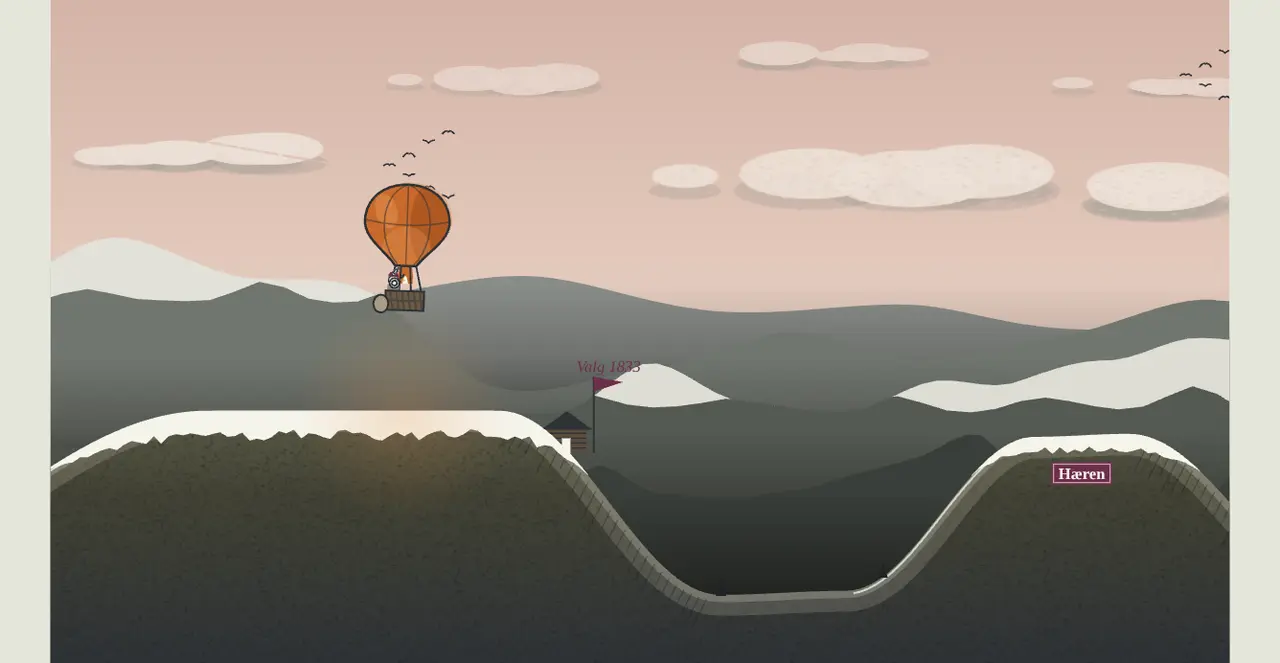
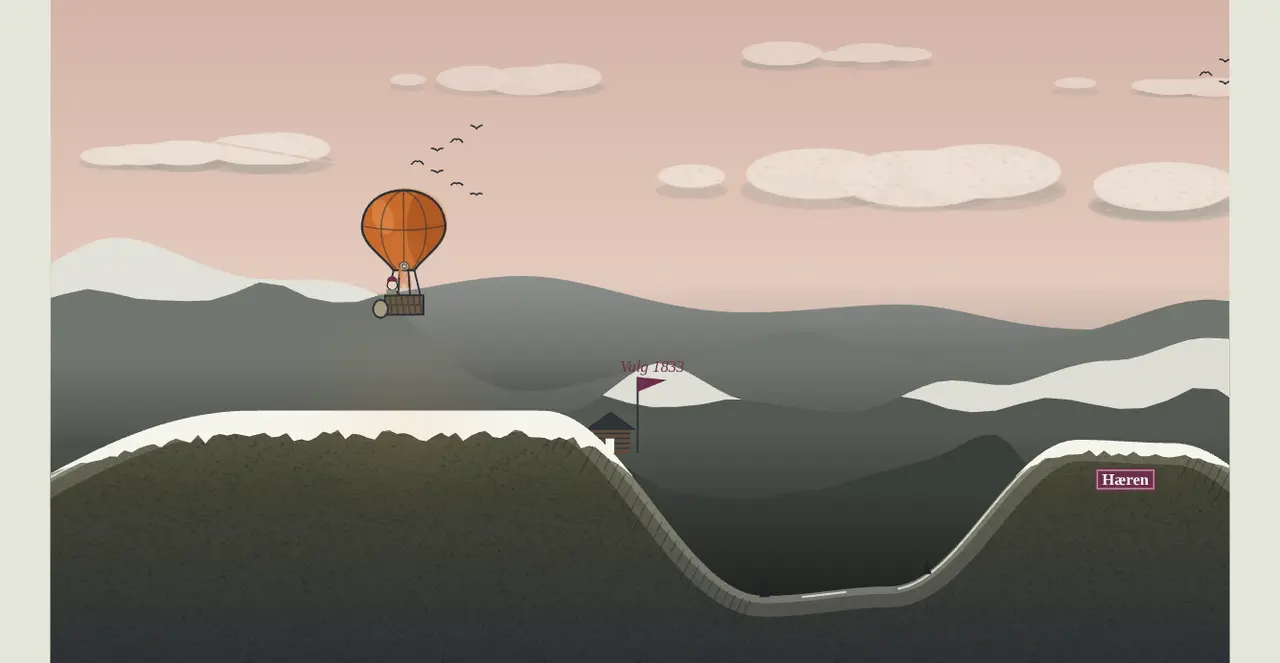
wip: pengeballongen siste forbedring (natt 3)
Claude-Session: https://claude.ai/code/session_01UZfNgQgFs6rutBqekVBVdM

diff --git a/src/components/microgames/pengeballongen/hud.ts b/src/components/microgames/pengeballongen/hud.ts
@@ -116,6 +116,7 @@ export function tegnHud(ctx: CanvasRenderingContext2D, g: Game, fx: Fx, v: HudVa
     }
 
     tidslinje(ctx, g);
+    if (!g.harRor && g.mode === 'play') låstRor(ctx);
     stripe(ctx, g, fx, tid);
 
     if (fx.blink > 0) {
@@ -142,8 +143,10 @@ function stripe(ctx: CanvasRenderingContext2D, g: Game, fx: Fx, tid: number) {
     const brukt = g.sjanser < T.sjekk.sjanser;
     if (!medUeland && !medBudsjett && !brukt) return;
     const venstre = medUeland ? 114 : 0;
-    const w = venstre + (medBudsjett || brukt ? 160 : 6);
-    const { x, y, h } = STRIPE;
+    const w = venstre + (medBudsjett || brukt ? 178 : 6);
+    const { x, y } = STRIPE;
+    // Med budsjettet blir kortet høyere: forklaringen står under baren.
+    const h = medBudsjett ? 86 : STRIPE.h;
     kort(ctx, x, y, w, h);
     // Full fart (over ×5): gullkant som blinker.
     if (medUeland && g.ganger > 5) {
@@ -188,8 +191,9 @@ function budsjett(ctx: CanvasRenderingContext2D, g: Game, fx: Fx, tid: number, x
     const inn = Math.min(1, (g.år - (T.penger.førsteEkteValg - 1.2)) / 0.4);
     const bonde = g.år >= T.penger.førsteEkteValg ? Math.max(0, 1 - (g.år - T.penger.førsteEkteValg) / 5.5) : 0;
     const neste = g.ter.valg[g.nesteValg];
-    const bw = 136;
+    const bw = 154;
     const bh = 18;
+    const fyrer = g.hold && !g.bæres && g.mode === 'play';
 
     ctx.save();
     ctx.globalAlpha = inn;
@@ -225,6 +229,30 @@ function budsjett(ctx: CanvasRenderingContext2D, g: Game, fx: Fx, tid: number, x
     if (fare) ctx.globalAlpha = inn * (0.6 + 0.4 * Math.sin(tid * 12));
     ctx.fillRect(x, by, bw * igjen, bh);
     ctx.globalAlpha = inn;
+    // Baren er en rad med mynter: det er penger, og de blir færre når du fyrer.
+    const fylt = bw * igjen;
+    ctx.strokeStyle = fare ? P.hvit : P.silkeMørk;
+    ctx.lineWidth = 1.2;
+    for (let mx = x + 8; mx + 6 <= x + fylt; mx += 13) {
+        ctx.beginPath();
+        ctx.arc(mx, by + bh / 2, 5, 0, Math.PI * 2);
+        ctx.stroke();
+    }
+    // Mens du fyrer: mynter ramler av enden av baren og ned i brenneren.
+    if (fyrer && fylt > 4) {
+        for (let k = 0; k < 3; k++) {
+            const u = (tid * 1.6 + k / 3) % 1;
+            ctx.globalAlpha = inn * (1 - u);
+            ctx.fillStyle = P.silke;
+            ctx.beginPath();
+            ctx.arc(x + fylt - 3 + u * 6, by + bh + 3 + u * 16, 4, 0, Math.PI * 2);
+            ctx.fill();
+            ctx.strokeStyle = P.kritt;
+            ctx.lineWidth = 1;
+            ctx.stroke();
+        }
+        ctx.globalAlpha = inn;
+    }
     // Gjenvalgt: et lyst glimt som feier over den fulle baren.
     if (fx.flagg > 0) {
         const gx = x + bw * (1 - fx.flagg);
@@ -264,6 +292,11 @@ function budsjett(ctx: CanvasRenderingContext2D, g: Game, fx: Fx, tid: number, x
         ctx.strokeRect(x - 3, by - 3, bw + 6, bh + 6);
         ctx.globalAlpha = inn;
     }
+    // Forklaringen rett under baren, så ingen lurer på om den viser brukt eller igjen.
+    ctx.font = `bold 13px ${FONT}`;
+    ctx.textAlign = 'left';
+    ctx.fillStyle = fare ? P.karmin : P.kritt;
+    ctx.fillText(fyrer ? 'Fyrer: baren tømmes' : 'Penger igjen til valget', x, by + bh + 17);
     if (fx.stabelBlink > 0) {
         ctx.strokeStyle = P.karmin;
         ctx.globalAlpha = fx.stabelBlink;
@@ -288,6 +321,39 @@ function tast(ctx: CanvasRenderingContext2D, x: number, y: number, t: string): n
     ctx.fillText(t, x + 6, y + 15);
     ctx.restore();
     return w;
+}
+
+/** Roret er låst til riksretten i 1884: et lite grått ror med hengelås under tidslinja. */
+function låstRor(ctx: CanvasRenderingContext2D) {
+    const x = 640;
+    const y = 50;
+    kort(ctx, x, y, 110, 24);
+    const cx = x + 14;
+    const cy = y + 12;
+    ctx.strokeStyle = P.halv;
+    ctx.lineWidth = 1.6;
+    ctx.beginPath();
+    ctx.arc(cx, cy, 6, 0, Math.PI * 2);
+    ctx.stroke();
+    for (let k = 0; k < 6; k++) {
+        const a = (k * Math.PI) / 3;
+        ctx.beginPath();
+        ctx.moveTo(cx + Math.cos(a) * 2, cy + Math.sin(a) * 2);
+        ctx.lineTo(cx + Math.cos(a) * 9, cy + Math.sin(a) * 9);
+        ctx.stroke();
+    }
+    // Hengelåsen.
+    ctx.fillStyle = P.kritt;
+    ctx.fillRect(cx + 4, cy + 1, 7, 6);
+    ctx.beginPath();
+    ctx.arc(cx + 7.5, cy + 1, 2.5, Math.PI, 0);
+    ctx.strokeStyle = P.kritt;
+    ctx.lineWidth = 1.3;
+    ctx.stroke();
+    ctx.font = `13px ${FONT}`;
+    ctx.textAlign = 'left';
+    ctx.fillStyle = P.kritt;
+    ctx.fillText('Roret: 1884', x + 30, y + 17);
 }
 
 /** Målet: tidslinja 1815-1884 øverst i midten, med valgene som små streker. */

diff --git a/src/components/microgames/pengeballongen/coach.ts b/src/components/microgames/pengeballongen/coach.ts
@@ -68,8 +68,10 @@ export function coachHendelse(h: Hendelse, g: Game, c: Coach) {
         case 'ganger':
             if (h.ganger > h.fra) {
                 // Portrettet spretter og mynter flyr dit for hvert trinn; lapp bare ved milepælene.
-                if (h.ganger === TUNING.ganger.maks) ved(`Ueland ×${h.ganger}! Full fart!`, -60, P.silke, true, 1.1);
-                else if (h.ganger === 5) ved('Ueland ×5!', -60, P.silke, true, 1);
+                // Lappen står under Ueland-portrettet oppe til venstre: ikke midt i bildet, og
+                // aldri oppå navnet på en port.
+                if (h.ganger === TUNING.ganger.maks) c.lapp(`Ueland ×${h.ganger}! Full fart!`, 20, 118, P.silke, true, 1.1);
+                else if (h.ganger === 5) c.lapp('Ueland ×5!', 20, 118, P.silke, true, 1);
             }
             break;
         case 'sjanse':
@@ -142,8 +144,9 @@ export function coach(g: Game, c: Coach) {
     }
     // Jernbanen og den første porten trenger ingen lapp: veiskillet viser de to løpene med
     // ord, pris og bonus på selve løpet.
-    // Ueland kommer om bord i 1844, alene (første port kommer først i 1854).
-    if (!sagt.has('ueland') && g.år >= g.uelandÅr + 0.8 && !g.bæres && g.mode === 'play') {
+    // Ueland kommer om bord i 1840,5 (ca. 34 s), alene: skrapeåsene 1842 er øvingsryggen. Første
+    // port kommer først ved Kongsvingerbanen (ca. 72 s).
+    if (!sagt.has('ueland') && g.år >= g.uelandÅr + 0.5 && !g.bæres && g.mode === 'play') {
         sagt.add('ueland');
         const t0 = g.t;
         text.beatOnce('ueland', BEAT.ueland.tittel, BEAT.ueland.tekst, {

diff --git a/src/components/microgames/pengeballongen/levels.ts b/src/components/microgames/pengeballongen/levels.ts
@@ -117,12 +117,12 @@ export type Form = 'tind' | 'skrapedal' | 'banen';
 export function formFor(p: number, år0: number, banenFra: number): Form {
     if (år0 < banenFra) return p % 2 === 0 ? 'tind' : 'skrapedal';
     const q = Math.round((år0 - banenFra) / 3) % 3;
-    return q === 0 ? 'banen' : q === 1 ? 'tind' : 'skrapedal';
+    return q === 0 ? 'banen' : q === 1 ? 'skrapedal' : 'tind';
 }
 
 /** Jernbanene: navnet på skiltet ved stasjonen, etter året perioden starter. */
 export const BANER: { år: number; navn: string; bevilg?: boolean }[] = [
-    { år: 1854, navn: 'Hovedbanen 1854', bevilg: true },
+    { år: 1854, navn: 'Hovedbanen 1854' },
     { år: 1863, navn: 'Kongsvingerbanen 1862', bevilg: true },
     { år: 1872, navn: 'Drammenbanen 1872', bevilg: true },
 ];
@@ -143,9 +143,8 @@ export const UTGIFTER: { år: number; navn: string; bevilg?: boolean }[] = [
     { år: 1840.5, navn: 'Ny festning' },
     // Med bevilgningsport: Stortinget velger om staten skal betale for det.
     { år: 1846.5, navn: 'Embetskontor' },
-    { år: 1858.5, navn: 'Telegrafen', bevilg: true },
-    { år: 1867.5, navn: 'Fyrlyktene', bevilg: true },
-    { år: 1876.5, navn: 'Rørosbanen', bevilg: true },
+    { år: 1870.5, navn: 'Telegrafen', bevilg: true },
+    { år: 1879.5, navn: 'Rørosbanen', bevilg: true },
 ];
 
 export type FunnId = 'olaboka' | 'jordskatten' | 'formannskap' | 'hovedbanen' | 'ibsen' | 'roret';

diff --git a/src/components/microgames/Pengeballongen.tsx b/src/components/microgames/Pengeballongen.tsx
@@ -275,7 +275,7 @@ export default function Pengeballongen({ onComplete }: MicroGameProps) {
         text.resetRun();
         setModeBoth('play');
         lyd.start();
-        text.banner(fraÅr ? 'Øving fra 1870' : BRETT[gameRef.current.brett].tittel);
+        text.banner(fraÅr ? 'Øving fra 1868' : BRETT[gameRef.current.brett].tittel);
     };
     const pause = () => {
         if (modeRef.current !== 'play') return;
@@ -476,7 +476,7 @@ export default function Pengeballongen({ onComplete }: MicroGameProps) {
                             <div style={{ display: 'flex', gap: 8, justifyContent: 'center' }}>
                                 {save.nådd1884 && (
                                     <ArcadeSmallButton onClick={() => start(TUNING.øvFra)}>
-                                        Øv fra 1870
+                                        Øv fra 1868
                                     </ArcadeSmallButton>
                                 )}
                                 <ArcadeSmallButton onClick={lydAv} ariaLabel="Lyd av eller på">

diff --git a/src/components/microgames/pengeballongen/tuning.ts b/src/components/microgames/pengeballongen/tuning.ts
@@ -100,8 +100,8 @@ export const TUNING = {
         rolig: { sekunder: 4, fra: 0.25 },
     },
 
-    /** «Øv fra 1870» låses opp når eleven har nådd 1884 én gang. */
-    øvFra: 1870,
+    /** «Øv fra 1868» låses opp når eleven har nådd 1884 én gang. */
+    øvFra: 1868,
 
     // Pengene.
     penger: {
@@ -134,8 +134,9 @@ export const TUNING = {
     // Ueland-gangeren (skrapebonus). Spart per sekund = perSek x ganger når du slipper i
     // nær-båndet, og bare `penger.utenfor` over det.
     ganger: {
-        /** Her kommer Ueland om bord (ca. 40 s), alene - første port kommer først i 1854 (ca. 57 s). */
-        fra: 1844,
+        /** Her kommer Ueland om bord (ca. 35 s), alene, før skrapeåsene 1842 (øvingsryggen). Første
+         * port (Kongsvingerbanen) kommer først rundt 72 s. */
+        fra: 1840.5,
         /** Nær-båndet: under så mange px over bakken vokser gangeren. */
         nær: 70,
         /** Bakken som teller, fra så langt bak til så langt foran kurven (px vei). */

diff --git a/src/components/microgames/pengeballongen/game.ts b/src/components/microgames/pengeballongen/game.ts
@@ -137,7 +137,7 @@ export function update(g: Game, dt: number) {
 
     // Ueland-gangeren: sammenhengende tid i nær-båndet gir et trinn opp; over båndet faller
     // den ett trinn om gangen.
-    // Ueland kommer om bord i `ganger.fra` (1844), alene, før første bevilgningsport.
+    // Ueland kommer om bord i `ganger.fra` (1840,5), alene, lenge før første bevilgningsport.
     if (g.uelandÅr > g.år && g.år >= T.ganger.fra) {
         g.uelandÅr = T.ganger.fra;
         g.hendelser.push({ slag: 'ueland', nei: false });

diff --git a/src/components/microgames/pengeballongen/state.ts b/src/components/microgames/pengeballongen/state.ts
@@ -47,9 +47,9 @@ export interface Game {
     t: number;
     /** Spilte sekunder i alt, også etter en ny sjanse (g.t spoles tilbake, denne gjør ikke det). */
     spilt: number;
-    /** Når runden startet (t). Øving fra 1870 starter midt i. */
+    /** Når runden startet (t). Øving fra 1868 starter midt i. */
     start: number;
-    /** Øvingsrunde («Øv fra 1870»): teller ikke for rekord. */
+    /** Øvingsrunde («Øv fra 1868»): teller ikke for rekord. */
     øving: boolean;
     år: number;
     brett: number;

diff --git a/src/components/microgames/pengeballongen/texts.ts b/src/components/microgames/pengeballongen/texts.ts
@@ -17,7 +17,7 @@ export const SJANSE_LÆRDOM =
 export const LAPP = {
     hold: 'Hold MELLOMROM: betal for løft',
     riksrett: 'Riksrett: ta stemmene, kutt tauene!',
-    grense: 'Tom bar før valget = stemt ut',
+    grense: 'Tom for penger før valget = stemt ut',
     ganger: 'Gli tett, men fyr før ryggen',
     ror: 'Pil NED: dykk under fjellet!',
     ola: 'Ola-boka: ta den!',

diff --git a/src/components/microgames/pengeballongen/KART.md b/src/components/microgames/pengeballongen/KART.md
@@ -1,14 +1,14 @@
 # Pengeballongen - kart over mappa
 
-Ferdig bygg (fase 6: kunst, juice, lyd, tekst; forbedring 1: sjanser, Ola-boka, roret, ny HUD; natt 2 forbedring 1: myk kontroll, jernbanen, porter under fjellet; natt 2 forbedring 2: bevilgningsporter, strammere budsjett, riksretten kutter tauene; natt 3 forbedring 1: bondestripa, porten forklart med bilde, færre lapper, Spart teller opp; natt 3 forbedring 2: nei ved porten lønner seg, Ueland kommer ved første port, faste utgifter på fjellene, gjenvalg som flaggrykk; natt 3 forbedring 3: porten som veiskille med to løp, første port Hovedbanen 1854, Ueland alene 1844, lapper ved tingen, én himmel per tiår). Brief: `docs/microgames/briefer/pengeballongen.md`.
-Komponent: `../Pengeballongen.tsx` (skall, input, lagring, meny/pause/slutt-skjerm, øving fra 1870, selvspill).
+Ferdig bygg (fase 6: kunst, juice, lyd, tekst; forbedring 1: sjanser, Ola-boka, roret, ny HUD; natt 2 forbedring 1: myk kontroll, jernbanen, porter under fjellet; natt 2 forbedring 2: bevilgningsporter, strammere budsjett, riksretten kutter tauene; natt 3 forbedring 1: bondestripa, porten forklart med bilde, færre lapper, Spart teller opp; natt 3 forbedring 2: nei ved porten lønner seg, Ueland kommer ved første port, faste utgifter på fjellene, gjenvalg som flaggrykk; natt 3 forbedring 3: porten som veiskille med to løp, første port Hovedbanen 1854, Ueland alene 1844, lapper ved tingen, én himmel per tiår; natt 3 forbedring 4: Ueland alene 1840,5 før skrapeåsene, første port Kongsvingerbanen ca. 72 s, Telegrafen-porten i 80 s-bildet, valgbar med mynter og forklaring, låst ror i HUD-en). Brief: `docs/microgames/briefer/pengeballongen.md`.
+Komponent: `../Pengeballongen.tsx` (skall, input, lagring, meny/pause/slutt-skjerm, øving fra 1868, selvspill).
 
 | Fil | Hva den gjør |
 | --- | --- |
 | `tuning.ts` | Alle tallene: år, fart, ballong, løft (varme, akselerasjon, tynn luft, synk, flosshatter, rolig start), roret (`synk`, `stig`, `over`, dalene), penger (pris, sparing før/utenfor/i båndet, grense, valgår), Ueland-gangeren (nær-bånd, vindu, trinn, fall), formene, `banen`, knausene 1882, `port`, press, ranger, `øvFra`. |
 | `levels.ts` | `UTGIFTER`/`BANER` med `bevilg: true` (portene), `RIKSRETT` (årene for de tre stemmene) og `REGJERING` (klippa). Brettene (bildetekst, banner, terreng før 1833), sletta før 1833, `formFor()` per valgperiode (tind / skrapeåser, fra 1854 også banen), `BANER`, finalen, kongens utgifter, funnene med fagsetning. |
 | `terrain.ts` | Tid <-> år <-> vei, `lagTerreng(rng)` (også `baner` og portene i rorstrekket), oppslag `bakke`, `fastTopp`, `knausVed`. |
-| `state.ts` | Typene og `newGame(seed, fraÅr?)` (øving hopper til 1870 med alt før lagt inn). |
+| `state.ts` | Typene og `newGame(seed, fraÅr?)` (øving hopper til 1868 med alt før lagt inn). |
 | `rules.ts` | Fagkjernen: `hold()`, `ror()`, `fly()` (fysikksteget, delt med robotene), `rorMål()`, `synk()`, `stig()`, `klaring()`, `nærhet()`, `iBåndet()`, `kostnad()`, `sparing()`, `krasjer()`, `press()`, `rang()`. |
 | `game.ts` | Kjerneløkka `update(g, dt)`: varme og løft, penger og sparing, gangeren, veiskillene, funn, valgene, spor, krasj, landing. |
 | `bots.ts` / `sim.ts` | Robotene (`pilot()` spår med samme fysikk og regner med at neste grep kan komme sent, `rorValg()` i rorstrekket) og simuleringskontrakten. |
@@ -16,7 +16,7 @@ Komponent: `../Pengeballongen.tsx` (skall, input, lagring, meny/pause/slutt-skje
 | `art.ts` | Paletten `P`, kvalitetsnivå (`?kvalitet=`), kritt-korn som mønster, skyer, `støy`/`hash`. |
 | `scene.ts` | Himmel (varmere mot 1884, sol bak Stortinget), skyer, tre fjell-lag med snø og dis, forgrunnen i kornet kritt med skrapt hvitt, graner, nær-båndet (prikker), glød, knauser med krone, fjellveggen over porten (`tegnPort`), jernbanen med tog og stasjon (`tegnBaner`), utgifter, funn. Fjellveggene i rorstrekket har tre lyse piler nedover i porten (ikke tekst). |
 | `figures.ts` | Ballongen med bonde, Ueland, flosshatter og Sverdrup; spøkelset; tingstua; funnet; kronen; Stortinget. |
-| `hud.ts` | Litografibladet: papirmarg, bildetekst, tast, Spart, tidslinja (målet) og bondestripa oppe til venstre (`stripe()`): Ueland + gangeren (vises fra første ×2, `fx.uelandSett`), valgflagg + budsjettbar, og sjansene (bare etter første brukte sjanse). |
+| `hud.ts` | Litografibladet: papirmarg, bildetekst, tast, Spart, tidslinja (målet) og bondestripa oppe til venstre (`stripe()`): Ueland + gangeren (vises fra første ×2, `fx.uelandSett`), valgflagg + budsjettbar (en rad mynter som ramler av enden når du fyrer, og «Penger igjen til valget» i 13 px under), og sjansene (bare etter første brukte sjanse). |
 | `porter.ts` | Bevilgningsportene (`tegnBevilg`): veiskille med to løp. Nedre karmin løp «BEVILG» (embetsmenn, pengesekk, pris), øvre oransje løp «NEI» (bønder, bonus, pil over fjellet), delelinja der midten av ballongen er på terskelen, stiplet gullsti til `til`. |
 | `draw.ts` | Setter bildet sammen (rekkefølgen), `skala`/`tilSkjerm`/`flateX`. |
 | `fx.ts` | Lappefeltet (én lapp om gangen, kø), partikler (mynter, gnister, røyk, hatter, luer, papir), mynter som flyr til telleren, rystelse i ekte tid. |
@@ -64,8 +64,10 @@ Komponent: `../Pengeballongen.tsx` (skall, input, lagring, meny/pause/slutt-skje
 13. Gangeren går til ×10 (`ganger.maks`); over ×5 kommer fartsstriper, lyd, blink og «Full fart!».
 14. Rorstrekket er ca. 15 s (`rorTempo` 30) med tre daler og porter, så filmbildet ved 110 s viser roret.
 
-17. Bevilgningsportene (`bevilg` i tuning, `ter.bevilg`): seks porter (Embetskontor 1846, Telegrafen
-    1858, Kongsvingerbanen, Fyrlyktene, Drammenbanen, Rørosbanen) i en flat dal før et dyrt fjell.
+17. Bevilgningsportene (`bevilg` i tuning, `ter.bevilg`): fire porter (Kongsvingerbanen ca. 72 s,
+    Telegrafen 1870,5 ca. 82 s - står midt i filmbildet ved 80 s, Drammenbanen ca. 87 s, Rørosbanen
+    ca. 97 s). Fra 1854 går formene banen, skrapedal, tind (byttet i `formFor`), så Telegrafen står
+    i tind-perioden 1869. Hovedbanen er en vanlig bane uten port: jernbanen kommer alene i en flat dal før et dyrt fjell.
     Kurven under `åpning` px over bakken ved porten = bevilget: prisen trekkes fra Spart, gangeren
     går til ×1 (Ueland hatet bevilgninger), og staten bærer ballongen (`g.bæres`, ror-fysikk mot
     `rorMål`) til `til`. Imens koster brenneren ingenting og ingenting spares. Over porten = spar
@@ -85,8 +87,9 @@ Komponent: `../Pengeballongen.tsx` (skall, input, lagring, meny/pause/slutt-skje
     (`fx.tapp`: en karmin bit faller av baren). Fjellet bak porten er like høyt som andre
     (`bevilg.fjell` 1), så nei går an tidlig og ikke sent. Porten viser embetsmenn med pengesekk og
     prisen nede, bønder med bonusen oppå skiltet (porter.ts).
-22. Ueland kommer om bord ved første bevilgningsport (`g.uelandÅr`, `uelandOm()` i rules.ts),
-    senest i `ganger.fra` (1848). Før det sparer slipp `penger.førUeland`.
+22. Ueland kommer om bord alene i `ganger.fra` (1840,5, ca. 34 s), før skrapeåsene 1842 som er
+    øvingsryggen (`g.uelandÅr`, `uelandOm()` i rules.ts). Lappene «Ueland ×5/×10» står under
+    portrettet oppe til venstre (x 20, y 118), ikke ved ballongen. Før det sparer slipp `penger.førUeland`.
 23. Faste utgifter: `FASTE` i levels.ts, `ter.faste` (rygger før 1833, tinder uten utgift, midt i
     skrapedalen), tegnet som karmin plate midt på fjellet i `tegnHindre`.
 24. Valgene 1827/1830 finnes fortsatt (de nullstiller perioden), men tegnes ikke og gir ingen lapp.

diff --git a/docs/microgames/briefer/pengeballongen.md b/docs/microgames/briefer/pengeballongen.md
@@ -870,3 +870,42 @@ Kjente svakheter: (1) En lapp ved ballongen («Ueland ×5!») kan dekke prosjekt
 et øyeblikk. (2) Pinnen ved baren i 1833 ligger delvis over baren. (3) Ballongen er allerede inne i
 løpene ved 55 s; et bilde litt før ville vist veiskillet helt fritt. (4) Roret kommer fortsatt
 først i 1884. (5) Menyen har fortsatt tre regellinjer.
+
+### Natt 3, forbedring 4 (siste, etter vurdering 4: Forståelig 3, Myk start 3, Eleven gjør 4, Utseende 3, Lærerikt 4)
+
+To grep, ingen nye regler.
+
+1. Én ny ting om gangen. Ueland kommer om bord alene i 1840,5 (`ganger.fra`, ca. 34 s), og
+   lærings-øyeblikket kommer et halvt år etter (film-04 ved 35 s viser Ueland og ingen port).
+   Skrapeåsene 1842 er øvingsryggen. Hovedbanen 1854 er nå en vanlig bane uten port, så film-05
+   (55 s) viser bare jernbanen. Fra 1854 går formene banen, skrapedal, tind (byttet i `formFor`).
+   Portene er nå fire: Kongsvingerbanen (ca. 72 s), Telegrafen (flyttet til 1870,5, ca. 82 s),
+   Drammenbanen (ca. 87 s) og Rørosbanen (1879,5, ca. 97 s). Telegrafen står midt i film-06
+   ved 80 s med hele veiskillet (NEI +28 / BEVILG -30). Fyrlyktene og den navngitte toppen i 1860
+   er fjernet. «Øv fra» er flyttet fra 1870 til 1868, så øvingen får med Telegrafen-porten.
+   Lappene «Ueland ×5!» og «Ueland ×10! Full fart!» står nå under portrettet oppe til venstre,
+   ikke midt i bildet ved ballongen og aldri oppå prosjektnavnet på porten.
+2. Valgbaren er entydig. Under baren står «Penger igjen til valget» (fet 13 px), og mens du
+   fyrer «Fyrer: baren tømmes». Den fylte delen er en rad mynter, og mens du holder, ramler
+   mynter av enden av baren. Stripa er 86 px høy når baren vises. Pinnen i 1833 sier nå «Tom for
+   penger før valget = stemt ut». Et lite låst ror (grått hjul med hengelås) og «Roret: 1884»
+   står under tidslinja fra start til roret kommer.
+
+Simulering (200 runder): grønn. flink 100 %, median 820 (p10 651, p90 1162); nybegynner 84 %,
+median 375; sløseren 53, gniten/passiv 21, tilfeldig 69. 35,8 valg/min, press 0,26 -> 0,63 ->
+0,87. Nei-andel (analyse.ts, 100 runder): flink 120 av 400 (30 %), nybegynner 76 av 418.
+Selvspill (fart 4, --cover): grønt, flink vant med 1056, passiv krasjet etter 8 s, Chromebook
+p95 17,3 ms. Scene-audit 0 funn. Likhet nærmest tinghuset (0,41). tsc og eslint rene.
+
+Prøvd som IKKE virket: (a) Bare fjerne porten ved Hovedbanen, Telegrafen og Drammenbanen: flink
+vant 18 % (stemt ut ved valget 1875 - den sene Drammenbanen er for dyr uten port). Drammenbanen
+fikk porten tilbake. (b) Telegrafen som vanlig navngitt topp i tind-perioden 1860: flink brukte en
+sjanse ved valget 1863 i halvparten av rundene (39 av 80), og film-06 havnet bak porten. Toppen er
+fjernet (3 av 80 nå). (c) Første selvspill viste Chromebook p95 28,5 ms; ny kjøring 19,1 og
+17,3 ms - målestøy under last, ikke koden.
+
+Kjente svakheter: (1) Nei-andelen for flink falt fra 60 % til 30 % fordi de to første portene er
+borte; de fire som er igjen kommer sent, når fjellene er dyre. (2) Telegrafen og Drammenbanen står
+tett (ca. 2 s fra staten slipper deg til neste port). (3) Pinnen ved baren i 1833 ligger delvis
+over baren. (4) Roret vises bare som et låst ikon før 1884; ingen dragkamp-måler. (5) Telegrafen
+står i 1870 i spillet, men kom i 1855 i virkeligheten (skiltet viser ikke år).
